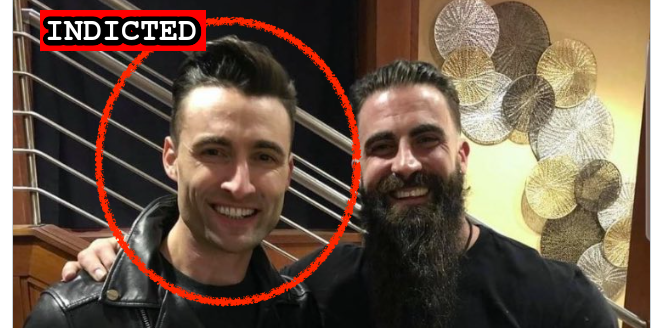
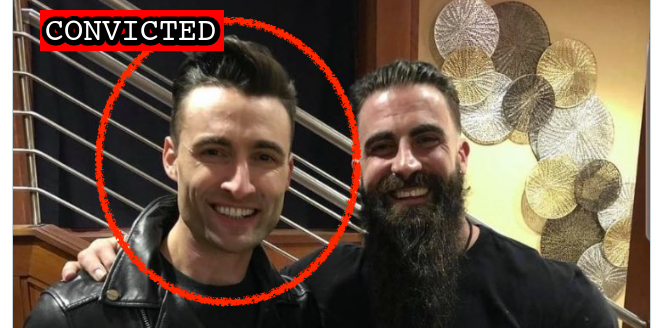
Strand conviction

Changed region(s): [[0.061, 0.0305, 0.3659, 0.1524]]

diff --git a/docs/_suspects/john-strand.md b/docs/_suspects/john-strand.md
@@ -4,18 +4,19 @@ lastName: Strand
 hashtag: JohnStrand
 aka:
 residence: California
-status: Indicted
+status: Convicted
 date: 2021-01-18
 charged: 2021-01-18
 indicted: 2021-02-05
-convicted:
+convicted: 2022-09-27
+acquitted:
 sentenced:
 dismissed:
 deceased:
 plea_hearing:
-sentencing:
 trial_date: 2022-09-19
 trial_type: Jury
+sentencing:
 age: 37
 occupation: Model
 affiliations:
@@ -36,9 +37,12 @@ published: true
 caseNumber: 1:21-cr-85
 videos:
 charges:
+- code: 40 USC § 5104(e)(2)(G)
+  title: Parading, demonstrating or picketing in a Capitol building
+  url: https://www.law.cornell.edu/uscode/text/40/5104
+  felony: false
 sentence:
 ---
-
 - [News Report](https://losangeles.cbslocal.com/2021/01/19/beverly-hills-salon-owner-gina-bisignano-2-others-arrested-for-capitol-riots/)
 - [FBI Statement (Twitter)](https://twitter.com/FBILosAngeles/status/1351604985210040326?s=20)
 - [Statement of Facts](https://www.justice.gov/opa/page/file/1356546/download)
